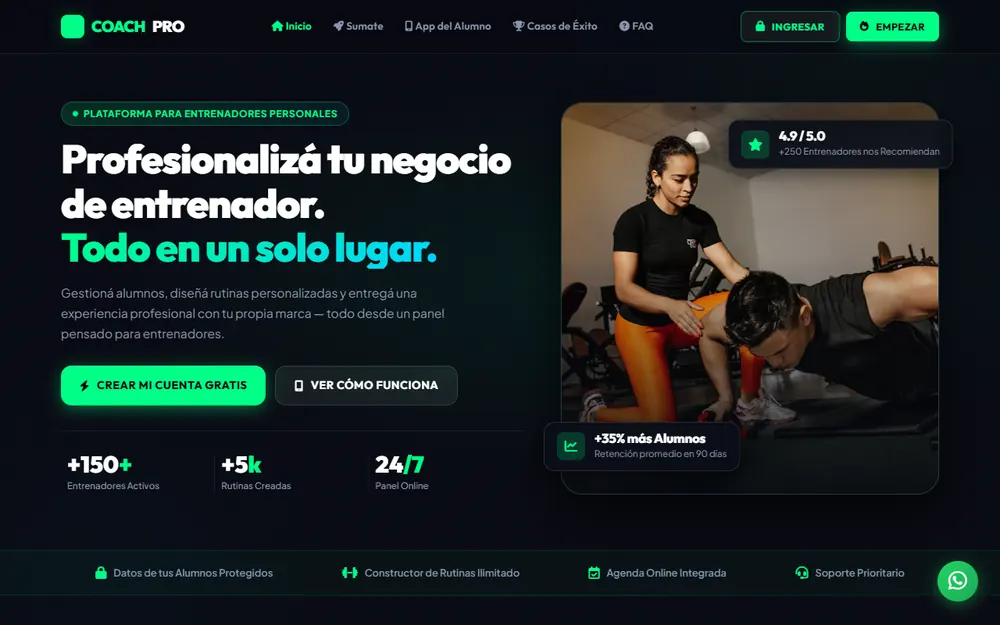
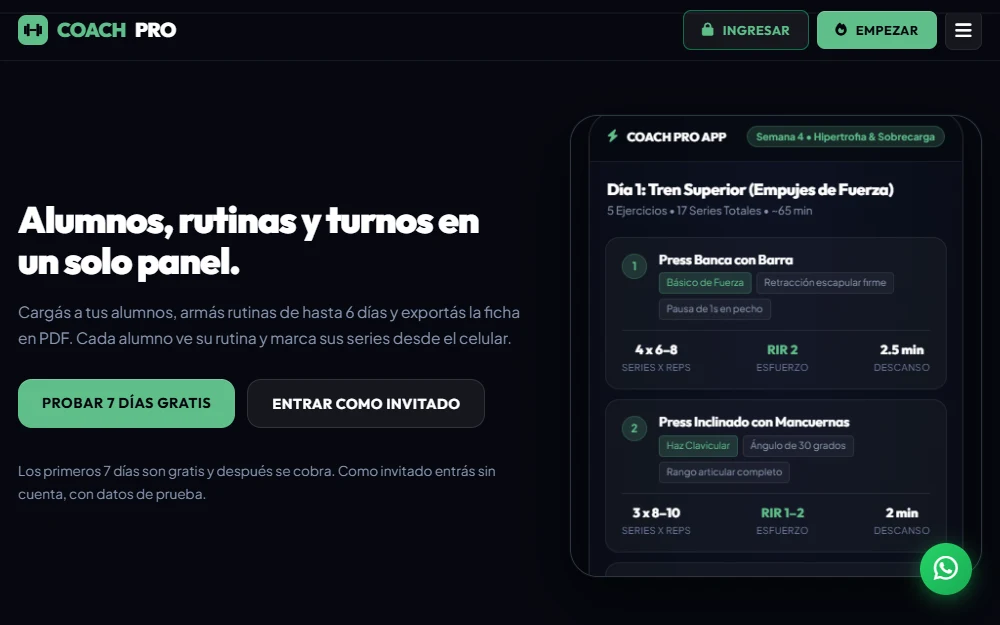
README: modo invitado, sin transformaciones, capturas nuevas

diff --git a/README.md b/README.md
@@ -9,13 +9,17 @@ Más trabajos en mi portfolio: https://portfolio-fawn-kappa-35.vercel.app
 
 ## Qué tiene
 
-Sitio público: inicio, planes, una rutina de demostración, transformaciones, preguntas frecuentes, privacidad, términos y un botón de WhatsApp.
+Sitio público: inicio, planes, una rutina de demostración, preguntas frecuentes, privacidad, términos y un botón de WhatsApp.
 
 Panel del coach, en `/admin`: resumen, alumnos (con alta de alumnos nuevos), constructor de rutinas con biblioteca de ejercicios y autocompletado, historial de versiones de cada rutina, envío de la rutina al alumno, exportación a PDF, turnos y una pestaña de ayuda.
 
 Portal del alumno, en `/alumno`: muestra la rutina, permite marcar las series completadas y tiene un cronómetro de descanso. El progreso y las sesiones completadas quedan guardados.
 
 Reservas, en `/reservar`: un asistente paso a paso para pedir un turno con un coach.
+
+## Modo invitado
+
+El botón "Entrar como invitado" abre el panel con un coach de ejemplo, sin cuenta. Los datos de ese modo viven en el `localStorage` del navegador (`src/lib/demo/localStore.js`), son propios de cada visitante y no tocan Firebase.
 
 ## Stack
 
